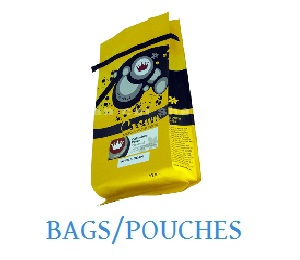
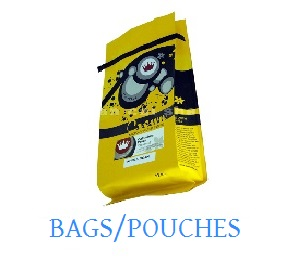
Minor fixes.

Changed region(s): [[0.3, 0.0308, 0.72, 0.8], [0.15, 0.8308, 0.81, 0.9538]]

diff --git a/index.html b/index.html
@@ -89,8 +89,8 @@ setInterval(function() {
 	
 <ul class="nav-pic">
 <li><a title="" href="products/Corrugated.html"> <img alt="corrugated" src="http://s2.postimg.org/mcz5k2m1l/BOXES_22_GENTIUM.jpg" /></a></li>
-<li><a title="" href="products/bags.html"> <img alt="bags" src="http://s28.postimg.org/6q69ml69p/BAGS_22_GENTIUM_new.jpg" /></a></li>
-<li><a title="" href="products/rollfilm.html"> <img alt="roll film" src="http://s10.postimg.org/gqyq77v6h/ROLL_FILM_22_GENTIUM.jpg" /></a></li>
+<li><a title="" href="products/bags.html"> <img alt="bags" src="http://s18.postimg.org/aco98qj61/BAGS_22_GENTIUM_new.jpg" /></a></li>
+<li><a title="" href="products/rollfilm.html"> <img alt="roll film" src="http://s24.postimg.org/tzk6gzn79/ROLL_FILM_22_GENTIUM2.jpg" /></a></li>
 <li><a title="" href="products/labels.html"> <img alt="labels" src="http://s12.postimg.org/pz725bnfh/LABELS_22_GENTIUM.jpg" /></a></li>
 </ul>
 </div>
